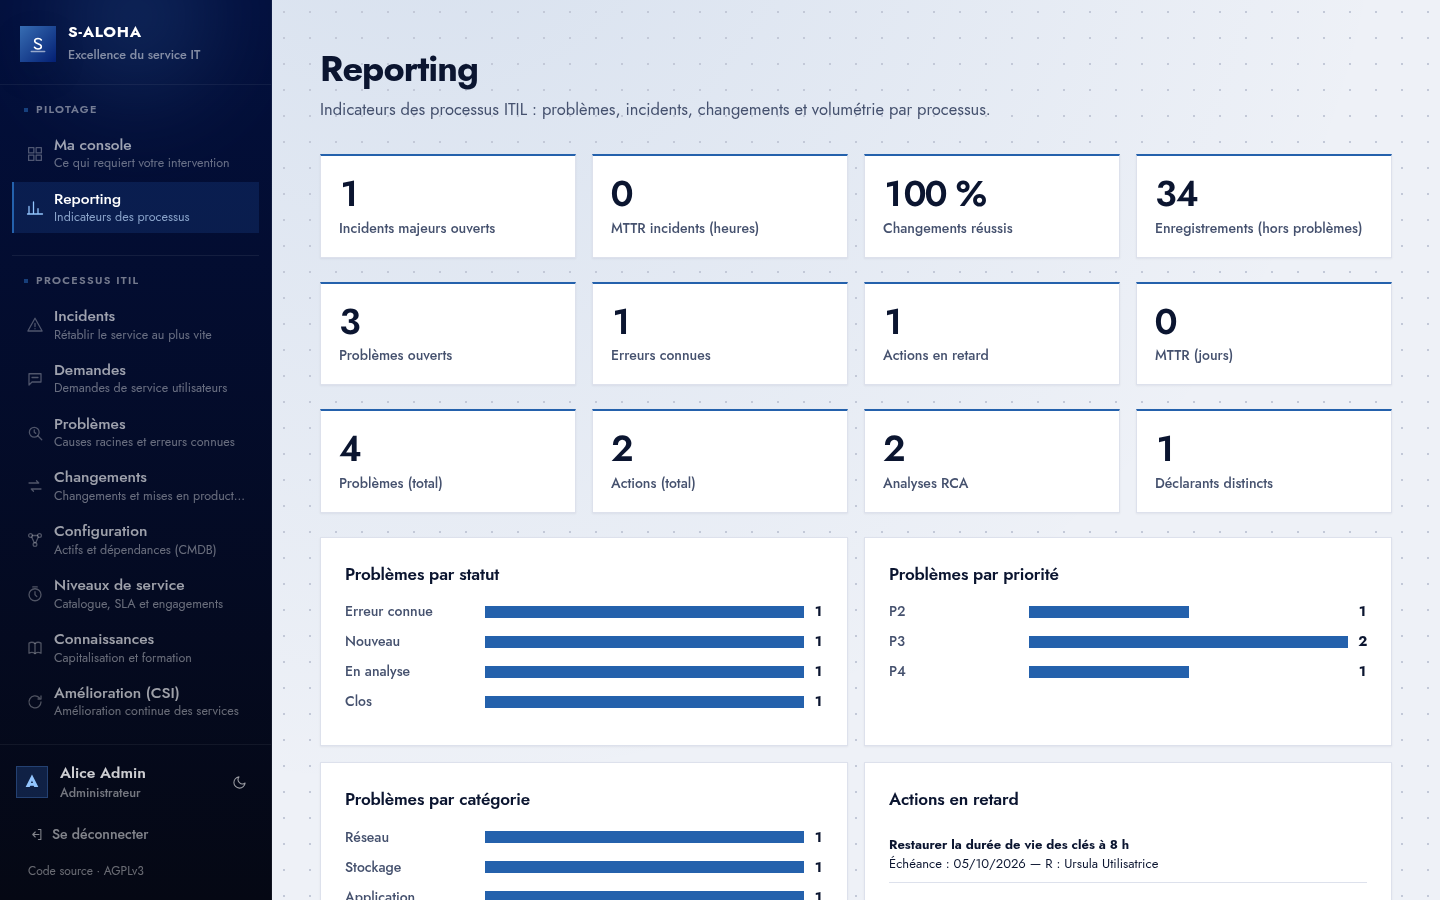
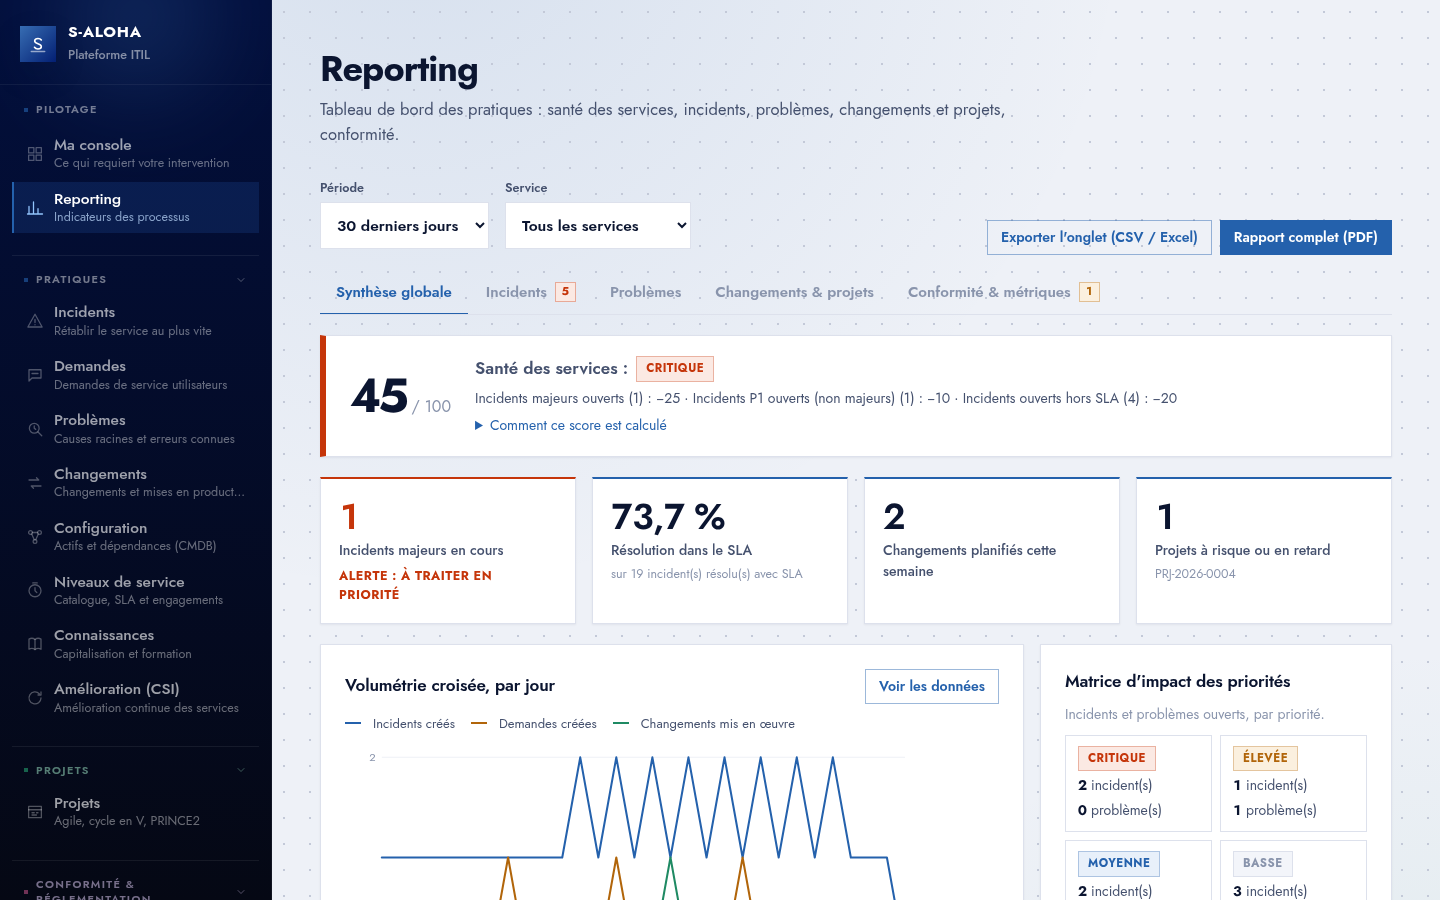
Captures d'écran à jour, projets et NIS 2 dans la galerie ; incident majeur de la démo déclaré par le gestionnaire (#79)
* Mode démonstration : incident majeur déclaré par le gestionnaire (INC-13)

Le chargement des données d'exemple échouait (400 « Seul un gestionnaire
peut déclarer un incident majeur ») depuis l'étape 4 du lot 1 : l'incident
majeur est désormais créé par demo.manager, responsable nominatif.

* Captures d'écran régénérées, projets et conformité NIS 2 dans la galerie

* Portes d'entrée : périmètres disponibles, commentaires et notifications

---------

diff --git a/demo/donnees/charger.py b/demo/donnees/charger.py
@@ -109,11 +109,12 @@ def main():
     lier(m, 'ci', bdd['id'], erp['reference'])
 
     # --- Incidents ---------------------------------------------------------------
-    inc_vpn = creer(u, '/api/incidents', {**URSULA, 'title': 'VPN inaccessible pour les directions régionales',
+    # Incident majeur : déclaré par un gestionnaire, responsable nominatif (INC-13).
+    inc_vpn = creer(m, '/api/incidents', {**MARC, 'title': 'VPN inaccessible pour les directions régionales',
         'description': 'Depuis 8 h, aucune connexion VPN n’aboutit hors du siège.',
         'impact': 'Élevé', 'urgency': 'Élevée', 'category': 'Réseau',
         'affectedService': 'Accès distant (VPN)', 'isMajor': True, 'resolution': None}, 'En cours')
-    lier(u, 'incident', inc_vpn['id'], passerelle['reference'])
+    lier(m, 'incident', inc_vpn['id'], passerelle['reference'])
     inc_vpn2 = creer(u, '/api/incidents', {**URSULA, 'title': 'Coupures VPN toutes les 20 minutes',
         'description': 'Les sessions VPN tombent régulièrement à Toamasina.',
         'impact': 'Moyen', 'urgency': 'Moyenne', 'category': 'Réseau',

diff --git a/README.md b/README.md
@@ -85,7 +85,7 @@ AGPLv3 : pas de licence par utilisateur, pas de dépendance à un éditeur.
 | **Amélioration continue** — registre et modèle ITIL 4 en 7 étapes | ✅ Disponible (MVP) |
 | **Conformité NIS 2** — évaluation au Référentiel Cyber France (ANSSI), écarts et actions | ✅ Disponible (MVP) |
 | **Projets** — Scrum, Kanban, Cycle en V, PRINCE2 ou hybride : la méthode active backlog, sprints, phases, jalons, risques… | ✅ Disponible (MVP) |
-| **Périmètres** — droits par direction, site ou entité, affectations d'utilisateurs et de groupes AD | 🟡 [En cours](docs/reference/perimetres.md) (droits et visibilité livrés ; écran d'administration à venir) |
+| **Périmètres** — droits et visibilité par direction, site ou entité, affectations d'utilisateurs et de groupes AD, écran d'administration | ✅ [Disponible](docs/reference/perimetres.md) |
 | **Déclarations réglementaires** — NIS 2 et RGPD, échéances 24 h / 72 h depuis l'incident | 🔜 [Spécifié](docs/reference/processus/declarations-reglementaires.md) |
 
 **(MVP)** : le processus tient son cycle de vie et ses garde-fous, mais pas encore tous ses
@@ -95,7 +95,9 @@ enrichissements ; la mention disparaît pratique par pratique selon des
 Chaque processus est un module, aligné sur la pratique **ITIL 4** correspondante, sur un
 socle commun : même connexion, même console, même reporting. Les enregistrements se
 relient entre eux par leur référence : un incident ouvre un problème, un problème appelle
-un changement, un changement touche des CI.
+un changement, un changement touche des CI. Sur chaque fiche : **commentaires** publics ou
+notes de travail, **historique** complet ; une **cloche** signale ce qui vous attend
+(affectations, décisions, échéances).
 
 ## Aperçu
 
@@ -123,6 +125,10 @@ un changement, un changement touche des CI.
   <tr>
     <td><img src="docs/screenshots/14-connaissances.png" alt="Base de connaissances" /><br/><b>Connaissances</b> — solutions, procédures, erreurs connues</td>
     <td><img src="docs/screenshots/15-amelioration-continue.png" alt="Amélioration continue" /><br/><b>Amélioration continue</b> — registre et modèle ITIL 4 en 7 étapes</td>
+  </tr>
+  <tr>
+    <td><img src="docs/screenshots/17-projet-scrum.png" alt="Projet Scrum" /><br/><b>Projets</b> — Scrum, cycle en V, PRINCE2 : backlog, sprints, tableau</td>
+    <td><img src="docs/screenshots/18-conformite-nis2.png" alt="Conformité NIS 2" /><br/><b>Conformité NIS 2</b> — évaluation, score, maturité et écarts par objectif</td>
   </tr>
 </table>
 
@@ -203,7 +209,7 @@ documentation en passant par les retours d'usage.
 | 🛡 [Sécurité](docs/reference/securite.md) | Modèle d'autorisation, durcissement |
 | 🔎 [Recherche](docs/reference/recherche.md) | Recherche hybride, cas similaires, service d'embeddings |
 | 📊 [Reporting](docs/reference/reporting.md) | Tableau de bord : score de santé, indicateurs par onglet, filtres, exports |
-| 🧭 [Périmètres](docs/reference/perimetres.md) | Droits scopés par direction, site ou entité (en cours : droits et visibilité livrés) |
+| 🧭 [Périmètres](docs/reference/perimetres.md) | Droits scopés par direction, site ou entité (droits, visibilité, écran d'administration) |
 | 📦 [Journal des versions](CHANGELOG.md) | Nouveautés et consignes de mise à jour de chaque version |
 | 🤝 [Contribuer](CONTRIBUTING.md) | Issues, pull requests, contrôles avant envoi |
 | 🚨 [Signaler une faille](SECURITY.md) | En privé, jamais dans une issue publique |
@@ -223,14 +229,15 @@ their attention, ranked by severity.
   self-assessment against the French ANSSI reference framework.
 - **Built-in governance**: lifecycle transitions enforced per practice, mandatory fields
   (resolution codes, rejection reasons, plans before approval…), and a full **audit trail**
-  (history tab) on every record.
+  (history tab), **comments** (public or work notes) and in-app **notifications** on every
+  record.
 - **Hybrid search** (keywords + semantic, local `bge-m3` model) to find similar incidents,
   problems and knowledge articles.
 - **Project management** (Scrum, Kanban, V-model, PRINCE2 or hybrid) and a tabbed
   **reporting dashboard** (service health score, incident/problem/change/project KPIs,
   CSV and PDF exports).
-- **Perimeter-scoped permissions** (by department, site or entity): rights and visibility
-  are in place; the administration screen is coming.
+- **Perimeter-scoped permissions** (by department, site or entity): rights, visibility
+  and an administration screen.
 - **Coming next**: regulatory incident notifications (NIS 2, GDPR).
 - **Stack**: ASP.NET Core 8, EF Core, PostgreSQL 16, React 18 + Vite, Docker Compose.
 - **Try it**: `docker compose -f docker-compose.yml -f docker-compose.demo.yml up -d`,

diff --git a/docs/archives/journal-2026-10-13.md b/docs/archives/journal-2026-10-13.md
@@ -124,3 +124,39 @@
 - **Documentation** : règles métier § 8, règles des pratiques (§ 6), frontend, architecture,
   base de données, plan d'action, `CHANGELOG.md`.
 - **Commit** : branche `soc-21-notifications`.
+
+---
+
+## Captures d'écran régénérées
+
+- **Quoi** : les 16 captures de `docs/screenshots/` refaites sur l'interface actuelle
+  (navigation en sections, reporting à onglets, fiches à jour), plus deux nouvelles :
+  `17-projet-scrum.png` (tableau du sprint d'un projet Scrum) et `18-conformite-nis2.png`
+  (synthèse d'une évaluation NIS 2). La galerie du README les affiche. Le registre des
+  incidents est pris filtré sur « En cours ».
+- **Pourquoi** : les captures dataient du 2026-10-07 ; l'interface a changé depuis
+  (périmètres, reporting, projets, conformité).
+- **Comment** : instance chargée avec le mode démonstration, navigateur sans tête en
+  1440 × 900, thème clair ; chaque page est refusée si son texte contient un enregistrement
+  de test ou une adresse interne.
+- **Mode démonstration** : l'incident majeur des données d'exemple est désormais déclaré par
+  le gestionnaire (règle INC-13), sinon le chargement s'arrêtait sur un refus 400.
+- **Fichiers** : `docs/screenshots/*`, `README.md`, `demo/donnees/charger.py`,
+  `docs/protocole-documentation.md` (§ 2 : conditions des captures).
+- **Limite** : prises avant les périmètres 3/4 et 4/4, les commentaires et les notifications ;
+  l'écran Administration › Périmètres et la cloche n'y figurent pas encore.
+- **Commit** : branche `captures-1012`.
+
+---
+
+## Portes d'entrée : périmètres disponibles, commentaires et notifications
+
+- **Quoi** : README (tableau des processus, socle commun, section anglaise, index de la
+  documentation), `docs/readme.md` et `produit.md` : les périmètres passent « Disponible »
+  (PER-01 à PER-12 ✅, écran d'administration compris) ; commentaires publics ou notes de
+  travail et notifications dans l'application mentionnés sur chaque fiche.
+- **Pourquoi** : PR #78, #80, #83 et #84 fusionnées.
+- **Fichiers** : `README.md`, `docs/readme.md`, `docs/reference/produit.md`.
+- **Commit** : branche `captures-1012`.
+
+---

diff --git a/docs/readme.md b/docs/readme.md
@@ -18,7 +18,7 @@ Ce qui est vrai en permanence, mis à jour avec le code.
 | ⚙ | [Exploitation](reference/exploitation.md) | Installer, brancher l'Active Directory, mettre à jour |
 | 📊 | [Reporting](reference/reporting.md) | Lire le tableau de bord : score de santé, indicateurs par onglet, filtres, exports |
 | 🔎 | [Recherche](reference/recherche.md) | Comprendre la recherche hybride : contenu indexé, cas similaires, service d'embeddings |
-| 🧭 | [Périmètres](reference/perimetres.md) | Droits scopés par direction, site ou entité (en cours : droits et visibilité livrés, écran d'administration à venir) |
+| 🧭 | [Périmètres](reference/perimetres.md) | Droits scopés par direction, site ou entité (droits, visibilité, écran d'administration) |
 | 🛡 | [Sécurité](reference/securite.md) | Préparer une mise en production |
 | 📖 | [Glossaire](reference/glossaire.md) | Retrouver un terme ITIL, technique ou malgache |
 

diff --git a/docs/reference/produit.md b/docs/reference/produit.md
@@ -61,8 +61,8 @@ Indépendants des processus, accessibles à tous les rôles :
 - **Recherche** — recherche hybride (mots et sens) sur les contenus validés, cas
   similaires sur les fiches ([recherche](recherche.md)) ;
 - **Périmètres** — droits et visibilité limités à une direction, un site ou une entité,
-  affectations d'utilisateurs et de groupes AD ; en cours (écran d'administration à venir,
-  [périmètres](perimetres.md)) ;
+  affectations d'utilisateurs et de groupes AD, écran Administration › Périmètres
+  ([périmètres](perimetres.md)) ;
 - **Reporting** — tableau de bord à onglets : score de santé des services, incidents
   (MTTR, MTTD, résolution au premier contact, SLA), problèmes, changements et projets,
   conformité ; filtres période et service, exports CSV et PDF ([reporting](reporting.md)).

diff --git a/docs/protocole-documentation.md b/docs/protocole-documentation.md
@@ -50,7 +50,9 @@ Chaque changement est replié dans le document de [`reference/`](reference/) con
 | Décision structurante actée | nouvel ADR dans [`decisions/`](decisions/readme.md) |
 
 Une interface modifiée rend les **captures d'écran** obsolètes : les régénérer
-(`docs/screenshots/`, mêmes noms de fichiers).
+(`docs/screenshots/`, mêmes noms de fichiers) depuis une instance chargée avec les données
+du mode démonstration, sans enregistrement de test, trou de numérotation ni adresse interne
+visible.
 
 ## 3. Journaliser les sujets traités
 
